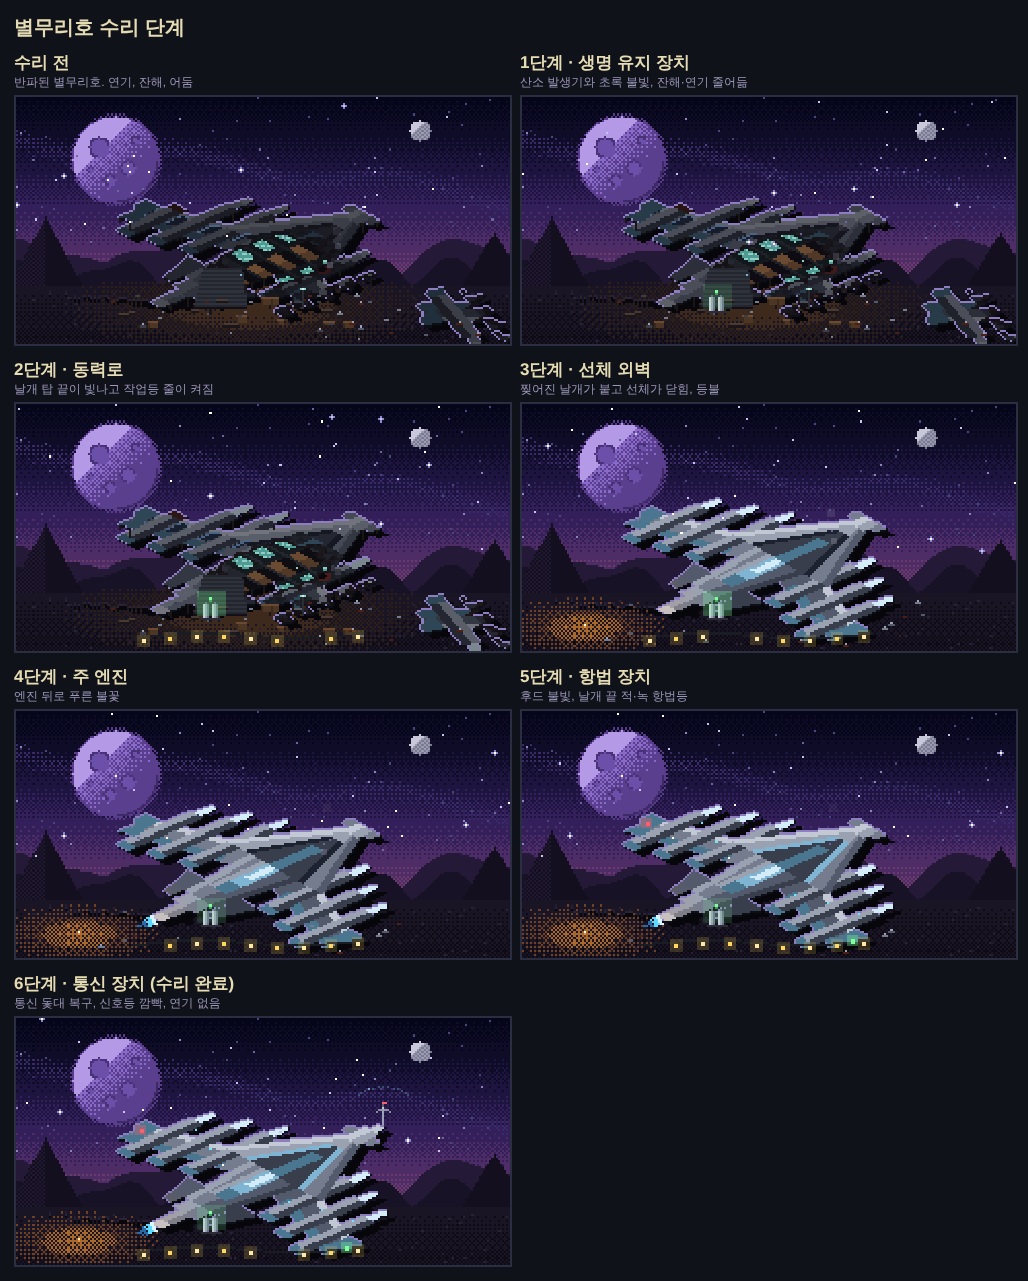
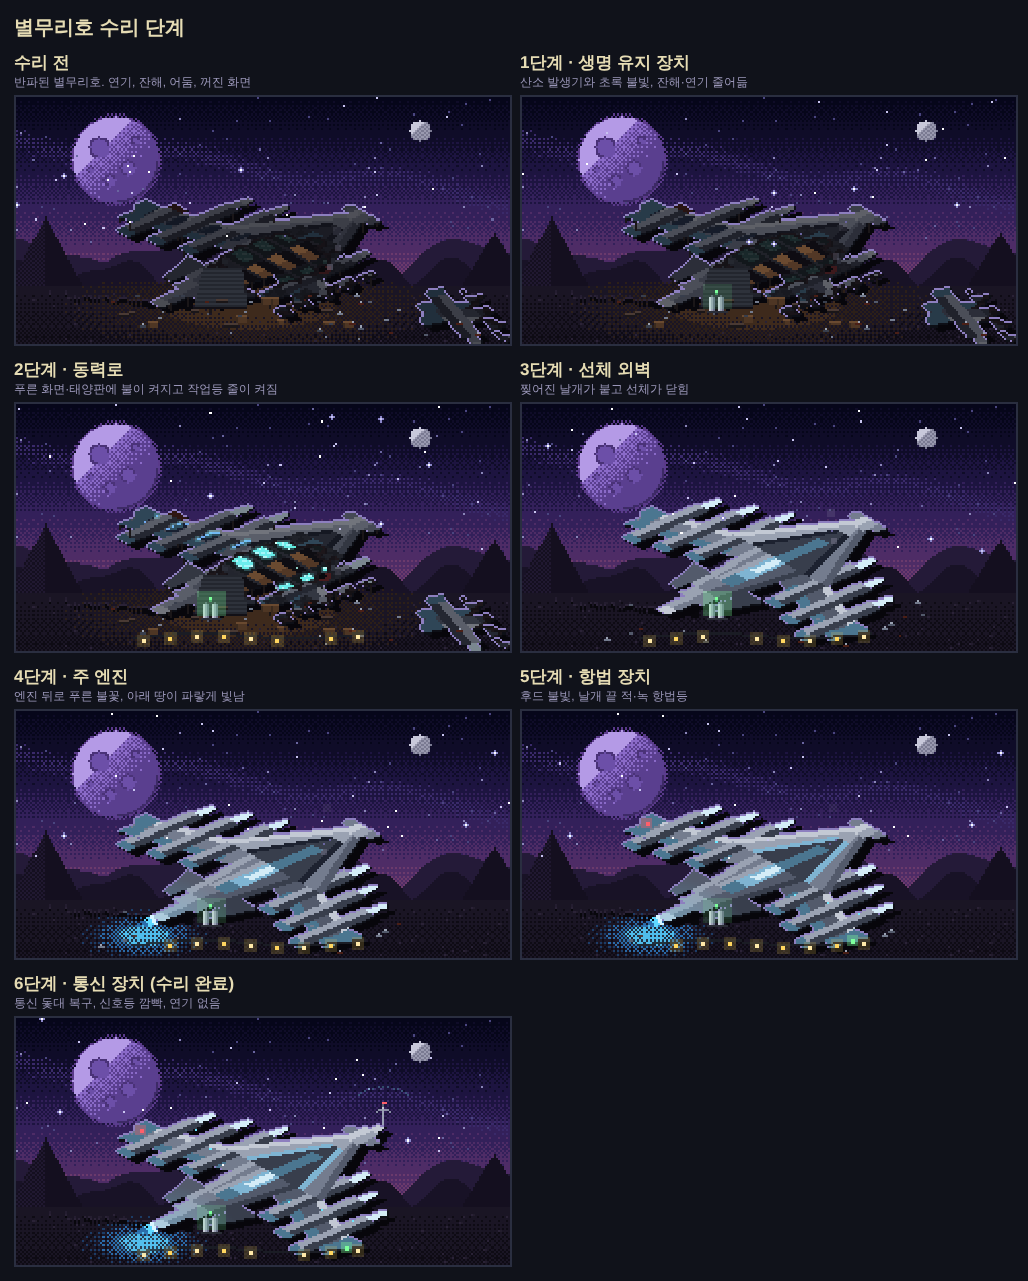
우주선 그림: 동력로 전엔 푸른 화면 꺼짐·후엔 켜짐, 램프·등불 제거, 엔진 수리 시 땅에 푸른 빛
Claude-Session: https://claude.ai/code/session_017dXBkxGYgXcz2tGUswvtFj

diff --git a/index.html b/index.html
@@ -3531,7 +3531,9 @@ function renderShip(){if(shipView==='bench')return benchHTML();if(shipView==='ro
 const SW=240,SH=120,BAYER=[[0,8,2,10],[12,4,14,6],[3,11,1,9],[15,7,13,5]];
 let shipBg=null,shipBgKey='',shipTimer=0;
 const SHIP_GLOW=new Set(['#4f9a92','#8fd0c4','#6a4a30','#523826','#4a6488']);
-const SHIPV={S:4.1,Q:.5,PH:-.72,X:116,Y:80,CX:214,CY:108,LX:30,LY:108};
+const SHIPV={S:4.1,Q:.5,PH:-.72,X:116,Y:80,CX:214,CY:108};
+// the base's teal consoles and the solar panels: unlit until the power core runs, then bright
+const SHIP_BLUE={'#4f9a92':'#5fe8d8','#8fd0c4':'#d8fff6','#4a6488':'#6fa8f0'};
 /* day from 06:00 to 18:00 Korea time (UTC+9, no DST), night otherwise — the same for every player */
 const isDay=()=>{const h=(new Date().getUTCHours()+9)%24;return h>=6&&h<18};
 /* the planet's surface as seen from the crash site: sky, stars or sun, the big moon-planet, ridges, ground (240x120) */
@@ -3568,12 +3570,13 @@ function shipSceneBuild(st){
   const px=(x,y,col)=>{g.fillStyle=col;g.fillRect(x|0,y|0,1,1)};
   const dith=(x,y,t)=>t*16>BAYER[y&3][x&3];
   const HZ=92;surfaceBackdrop(g,day,rnd);
-  // lantern glow on the ground
-  const LX=SHIPV.LX,LY=SHIPV.LY;if(st.hull)for(let y=HZ;y<SH;y++)for(let x=0;x<160;x++){const d=Math.hypot((x-LX)/2.6,(y-LY));if(d<16&&dith(x,y,(1-d/16)*.7))px(x,y,d<7?'#a8682c':'#6e4024')}
-  // the ship: the starfighter belly-down on the ground, nose to the upper right; key light from the planet (upper left), warm fill from the camp lantern
+  // the ship: the starfighter belly-down on the ground, nose to the upper right; key light from the planet (upper left)
   const S=SHIPV.S,Q=SHIPV.Q,PH=SHIPV.PH;
   const place=(cx,cy,ph,ox,oy)=>{const sn=Math.sin(ph),cs=Math.cos(ph);return{to:(X,Y)=>{const lx=(X-ox)*S,ly=(Y-oy)*S;return[cx-lx*sn-ly*cs,cy+(lx*cs-ly*sn)*Q]},from:(x,y)=>{const vx=x-cx,vy=(y-cy)/Q;return[ox+(-vx*sn+vy*cs)/S,oy+(-vx*cs-vy*sn)/S]}}};
   const hull=place(SHIPV.X,SHIPV.Y,PH,20,22),chunk=place(SHIPV.CX,SHIPV.CY,PH+1.9,35.5,22);
+  // 주 엔진: the exhaust lights the ground under the tail blue
+  const [etx,ety]=hull.to(20,37.5),[emx,emy]=hull.to(20,22),eL=Math.hypot(etx-emx,ety-emy),GX=etx+(etx-emx)/eL*7,GY=ety+(ety-emy)/eL*7+5;
+  if(st.engine)for(let y=HZ;y<SH;y++)for(let x=0;x<SW;x++){const d=Math.hypot((x-GX)/2.4,y-GY);if(d<13&&dith(x,y,(1-d/13)*.8))px(x,y,d<5?'#4fb8e8':d<9?'#2a6aa8':'#1c3c66')}
   // K = sections repaired so far: every one dims the wreck less, clears debris and adds its own sign of life
   const wreck=!st.hull,mess=SHIP.some(p=>!st[p.id]),K=SHIP.filter(p=>st[p.id]).length;
   const [mx,my]=hull.to(21,24),FX=Math.round(mx),FY=Math.max(Math.round(my)+12,100);
@@ -3586,27 +3589,24 @@ function shipSceneBuild(st){
   const draw=(P,stx)=>{const M=new Map();for(let y=10;y<SH;y++)for(let x=0;x<SW;x++){const [X,Y]=P.from(x+.5,y+.5),col=shipColorAt(X,Y,stx);if(col)M.set(y*SW+x,col)}
     // cast shadow falls to the lower right, away from the planet
     M.forEach((_,k)=>{const x=k%SW+4,y=(k-k%SW)/SW+3;if(y<SH&&!M.has(y*SW+x))px(x,y,day?'#2e2628':'#07060b')});
-    M.forEach((col,k)=>{const x=k%SW,y=(k-x)/SW;if(wreck){if(!SHIP_GLOW.has(col))col=mix(col,day?'#1a1820':'#0c0b10',(day?.45:.66)*(1-K*.16));let w=0;FIRES.forEach(([fx,fy])=>{const d=Math.hypot(x-fx,(y-fy)*1.3);if(d<16)w=Math.max(w,1-d/16)});if(w)col=mix(col,'#ff7a2a',w*w*.75)}else{const d=Math.hypot((x-LX)/1.6,y-LY);if(d<40)col=mix(col,'#e0904a',(1-d/40)*.45)}px(x,y,col)});
+    M.forEach((col,k)=>{const x=k%SW,y=(k-x)/SW;if(wreck){const bl=SHIP_BLUE[col];if(bl){if(st.power){col=bl;glow.push([x,y])}else col=mix(col,'#0c0b10',.8)}if(!SHIP_GLOW.has(col)&&!bl)col=mix(col,day?'#1a1820':'#0c0b10',(day?.45:.66)*(1-K*.16));let w=0;FIRES.forEach(([fx,fy])=>{const d=Math.hypot(x-fx,(y-fy)*1.3);if(d<16)w=Math.max(w,1-d/16)});if(w)col=mix(col,'#ff7a2a',w*w*.75)}else if(st.engine){const d=Math.hypot((x-GX)/1.6,y-GY);if(d<30)col=mix(col,'#5fd8ff',(1-d/30)*.35)}px(x,y,col)});
     // rim: lit edges facing the planet, dark outline elsewhere
     M.forEach((_,k)=>{const x=k%SW,y=(k-x)/SW;[[0,-1,1],[-1,0,1],[1,0,0],[0,1,0]].forEach(([a,b,lt])=>{const n=(y+b)*SW+x+a;if(!M.has(n))px(x+a,y+b,lt?(day?'#f0e6c8':'#8d7fbf'):'#0d0f16')})});return M};
-  const HM=draw(hull,st);
+  const glow=[],HM=draw(hull,st);
   if(wreck){draw(chunk,Object.assign({},st,{chunk:1}));
     // molten drips hanging from the underside
     HM.forEach((_,k)=>{const x=k%SW,y=(k-x)/SW;if(HM.has(k+SW)||rnd()>.09)return;const L=2+(rnd()*4|0);for(let i=1;i<=L;i++)px(x,y+i,'#1a1618')});
     // a boarding ramp let down from the base to the ground
     {const [ax0,ay0]=hull.to(17,27.5),[ax1,ay1]=hull.to(24,27.5),gy=Math.max(ay0,ay1)+9;for(let y=Math.round(Math.min(ay0,ay1));y<gy;y++){const k=(y-Math.min(ay0,ay1))/(gy-Math.min(ay0,ay1)),l=ax0+(ax0-ax1)*.25*k,r=ax1+(ax1-ax0)*.1*k;for(let x=Math.round(l);x<=r;x++)px(x,y,y%2?'#23262e':'#2e323b')}for(let x=Math.round(ax0-(ax1-ax0)*.25);x<=ax1+2;x++)px(x,gy,'#121016')}
-    // crates, a lamp post and charred slabs in the yard
+    // crates and charred slabs in the yard
     for(let k=0;k<7;k++){const x=FX-50+rnd()*100|0,y=FY+rnd()*12|0,w=3+(rnd()*4|0),h=2+(rnd()*3|0);for(let j=0;j<h;j++)for(let i=0;i<w;i++)px(x+i,y-j,j===h-1?'#6a4a30':i===0?'#3a2a1e':'#4e3624')}
-    {const lx=FX+26,ly=FY+2;for(let j=0;j<9;j++)px(lx,ly-j,'#2a2d36');px(lx-1,ly-9,'#8fd0c4');px(lx,ly-9,'#cfeee8');px(lx+1,ly-9,'#8fd0c4')}
     for(let k=0;k<8;k++){const x=FX-70+rnd()*140|0,y=FY-2+rnd()*16|0,w=3+(rnd()*5|0);for(let i=0;i<w;i++){px(x+i,y,'#4a3a34');px(x+i,y+1,'#1a1618')}}}
   // wreckage strewn over the ground
   if(mess)for(let k=0;k<Math.round(34*(1-K/6));k++){const x=40+rnd()*190|0,y=96+rnd()*22|0,w=1+(rnd()*3|0),col=['#747c8e','#535a6b','#383e4c','#4a1f16'][rnd()*4|0];for(let i=0;i<w;i++)px(x+i,y,col);if(w>2)px(x+1,y-1,'#9aa2b2')}
   // 생명 유지 장치: an oxygen generator by the ramp — two tanks and a green status light
   if(st.life){const ox=FX-22,oy=FY+3;for(const dx of [0,4]){for(let j=0;j<7;j++)for(let i=0;i<3;i++)px(ox+dx+i,oy-j,i===0?'#c8ccd8':i===1?'#9aa0b4':'#6a7088');px(ox+dx+1,oy-7,'#5d6274')}for(let i=-1;i<9;i++)px(ox+i,oy+1,'#2a2d36');px(ox+3,oy-9,'#7dff9b');px(ox+3,oy-8,'#3a8a5a')}
-  // lantern post
-  if(st.hull){px(LX,LY-1,'#ffe9a8');px(LX,LY,'#e09040');px(LX,LY+1,'#5a3a24')}
   const stars=[];for(let k=0;k<46;k++)stars.push({x:rnd()*SW|0,y:rnd()*72|0,p:rnd()*6.28,s:.6+rnd()*1.6,big:rnd()<.2});
-  return{c,day,stars,LX,LY,FX,FY,FIRES,lights:[[19,19],[23,18],[17,22],[25,23],[21,25],[15,20]].map(([X,Y])=>hull.to(X,Y).map(Math.round)),tipL:hull.to(1.5,24).map(Math.round),tipR:hull.to(38.5,24).map(Math.round),run:[[6,19],[10,20.5],[14,22],[34,19],[30,20.5],[26,22]].map(([X,Y])=>hull.to(X,Y).map(Math.round)),breach:hull.to(25.5,17.5),seam:hull.to(31.5,21),tail:hull.to(20,37.5),mid:hull.to(20,22),nose:hull.to(20,2)};
+  return{c,day,stars,glow,GX,GY,FX,FY,FIRES,lights:[[19,19],[23,18],[17,22],[25,23],[21,25],[15,20]].map(([X,Y])=>hull.to(X,Y).map(Math.round)),tipL:hull.to(1.5,24).map(Math.round),tipR:hull.to(38.5,24).map(Math.round),run:[[6,19],[10,20.5],[14,22],[34,19],[30,20.5],[26,22]].map(([X,Y])=>hull.to(X,Y).map(Math.round)),breach:hull.to(25.5,17.5),seam:hull.to(31.5,21),tail:hull.to(20,37.5),mid:hull.to(20,22),nose:hull.to(20,2)};
 }
 function shipSceneDraw(cv,t){
   const st={};SHIP.forEach(p=>st[p.id]=shipDone(p));const key=SHIP.map(p=>st[p.id]?1:0).join('')+(isDay()||isLight()?'d':'n');
@@ -3627,7 +3627,7 @@ function shipSceneDraw(cv,t){
       for(let cx=-r;cx<=r;cx++){const h=Math.max(0,(r*2.1-Math.abs(cx)*1.6)*(.7+.3*Math.sin(t/80+cx*1.4+n*2.3)+.12*Math.sin(t/33+cx*2.9+n)));for(let k=0;k<h;k++){const f=k/Math.max(1,h);px(fx+cx,fy-k,f<.2&&Math.abs(cx)<r/2?'#fff4c8':f<.45?'#ffd65f':f<.78?'#ff8a3a':'#b0402a')}}
       const ph=((t/1200)+n/8)%1;if(ph<.7)px(fx+Math.sin(n*2.1+ph*7)*4,fy-r*2-ph*16,ph<.35?'#ffd65f':'#ff8a3a')});
     // console lights blinking inside the base
-    for(let i=0;i<6;i++){if(((t/(400+i*130))|0)%3)continue;const [lx,ly]=B.lights[i];px(lx,ly,i%2?'#8fd0c4':'#7fb4d2')}}
+    if(st.power)for(let i=0;i<6;i++){if(((t/(400+i*130))|0)%3)continue;const [lx,ly]=B.lights[i];px(lx,ly,i%2?'#8fd0c4':'#7fb4d2')}}
   // engine glow, pointing away from the nose
   if(st.engine){const f=(t/120|0)%3,[tx,ty]=B.tail,[mx,my]=B.mid,L=Math.hypot(tx-mx,ty-my),ux=(tx-mx)/L,uy=(ty-my)/L;for(let k=1;k<=9+f;k++)for(let w=-2;w<=2;w++){if(Math.abs(w)*2>9+f-k)continue;px(tx+ux*k-uy*w,ty+uy*k+ux*w,k<3?'#d8f6ff':k<6?'#5fd8ff':'#2a6aa8')}}
   // 생명 유지 장치 breathing light
@@ -3643,8 +3643,10 @@ function shipSceneDraw(cv,t){
     for(let i=-3;i<=3;i++)px(mx+i,top+Math.round(Math.abs(i)*.6),i===0?'#c4c7d4':'#8a8ea6');px(mx,top-1,'#5d6274');
     if((t/500|0)%2===0){px(mx,top-2,'#ff5f6a');px(mx+1,top-2,'#ff5f6a')}
     const w=(t%1800)/1800;for(let a=-6;a<=6;a++){const r=4+w*14,x=mx+Math.round(Math.sin(a/6*1.1)*r),y=top-2-Math.round(Math.cos(a/6*1.1)*r*.6);if(y>0)px(x,y,`rgba(127,232,255,${(1-w)*.9})`)}}
-  // lantern flicker
-  if(st.hull&&(t/140|0)%5!==0)px(B.LX,B.LY-1,'#fffbe0');
+  // powered consoles and panels hum with a soft glow
+  if(B.glow.length){const a=.1+(Math.sin(t/650)+1)*.07;g.fillStyle=`rgba(120,240,255,${a})`;B.glow.forEach(([x,y],i)=>{if(i%3===0)g.fillRect(x-1,y-1,3,3)})}
+  // the blue pool under the exhaust flickers with the flame
+  if(st.engine){const f=(t/120|0)%3;g.fillStyle=`rgba(95,216,255,${.08+f*.04})`;g.fillRect(B.GX-14,B.GY-3,28,7);g.fillRect(B.GX-8,B.GY-5,16,11)}
 }
 function startShipScene(){
   clearInterval(shipTimer);const cv=$('#shipCv');if(!cv)return;
